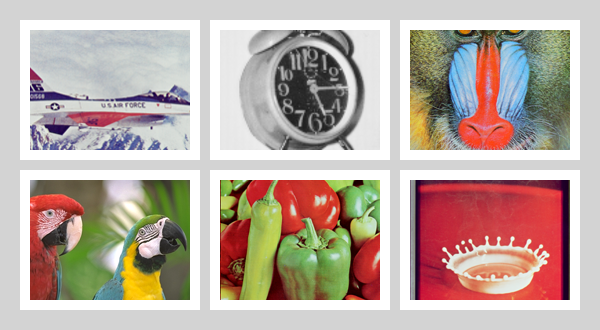
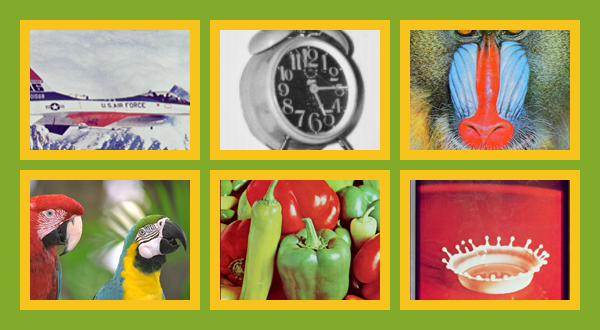
docs: update

diff --git a/README.md b/README.md
@@ -7,10 +7,24 @@
 contactsheet-goは、指定されたディレクトリの画像ファイルからコンタクトシートを生成するコマンドラインツールです。画像をグリッドレイアウトで配置し、タイルサイズ、行・列数、マージン、パディング、補間方法、背景色などのオプションをカスタマイズできます。
 
 画像の各タイルへの配置方法を選択できます：
-- **fit**: アスペクト比を保持しながらタイル内に収める（中央配置）
+
 - **crop**: タイル領域を埋めるように画像を切り抜く（中央部分を切り抜き）
+- **fit**: アスペクト比を保持しながらタイル内に収める（中央配置）
 
 ## 例
+
+- crop
+
+```bash
+go run . -i ./examples/images -o ./examples/out \
+  -r 2 -c 3 -w 160 -h 120 \
+  --tilemode crop \
+  --prefix "crop_2x3_" \
+  --background-color "#82ab2b" \
+  --tile-background-color "#f8c41b"
+```
+
+![Sample Image 1](examples/out/crop_2x3_1.png)
 
 - fit
 
@@ -20,20 +34,7 @@ go run . -i ./examples/images -o ./examples/out \
   --tilemode fit --prefix "fit_2x3_"
 ```
 
-![Sample Image 1](examples/out/fit_2x3_1.png)
-
-- crop
-
-```bash
-go run . -i ./examples/images -o ./examples/out \
-  -r 2 -c 3 -w 160 -h 120 \
-  --tilemode crop \
-  --prefix "crop_2x3_" \
-  --background-color #d3d3d3 \
-  --tile-background-color white
-```
-
-![Sample Image 2](examples/out/crop_2x3_1.png)
+![Sample Image 2](examples/out/fit_2x3_1.png)
 
 - 背景透過
 
@@ -42,12 +43,22 @@ go run . -i ./examples/images -o ./examples/out \
   -r 2 -c 3 -w 128 -h 128 \
   --tilemode fit \
   --prefix "transparent_3x3_" \
-   --background-color #00000000 \
-   --tile-background-color #FF000033 \
+   --background-color "#00000000" \
+   --tile-background-color "#33333333" \
    --inner-margin 5 --outer-margin 5 --padding 10
 ```
 
 ![Sample Image 3](examples/out/transparent_3x3_1.png)
+
+- コンタクトシートのコンタクトシート
+
+```bash
+go run . -i ./examples/out -o ./examples -r 2 -c 2 \
+  --tile-background-color #33ccff
+```
+
+![Sample Image 4](examples/out_1.png)
+
 
 サンプル画像の引用元: http://www.ess.ic.kanagawa-it.ac.jp/app_images_j.html
 
